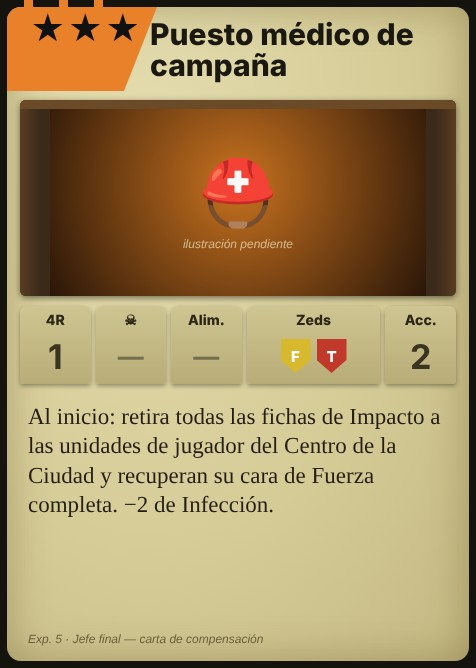
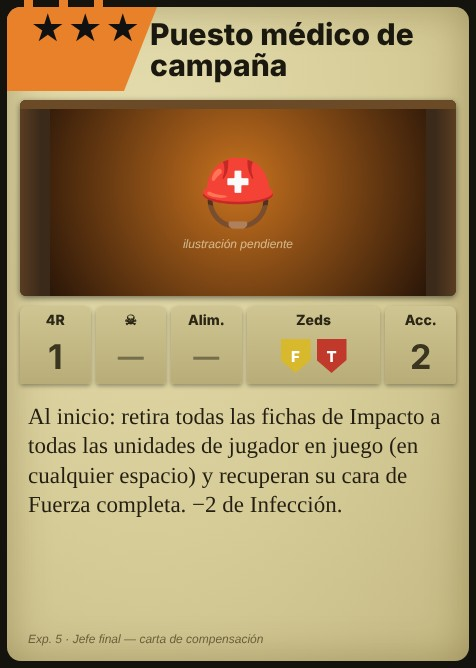
Exp. 5: Puesto médico de campaña cura a todas las unidades de jugador; BUILD_TIME, CHANGELOG y caché v75
Claude-Session: https://claude.ai/code/session_01KmRiLbWWzhUthpc2eQKnLk

Changed region(s): [[0.0588, 0.6587, 0.8824, 0.7784]]

diff --git a/js/phases.js b/js/phases.js
@@ -449,7 +449,7 @@ async function eventEffect(ev) {
     case 'heroe_b': case 'heroe_g': { const k = randomAvailableHero(); if (k) { const inits = ['C'].concat(G.routes.map(r => r + '0')); await spawnHero(k, null, inits); } else LOG('No quedan Héroes disponibles.'); break; }
     case 'boss_heroe': { const pool = heroPoolFor(G.lv.n).filter(x => !hero(x) && !G.cemetery.some(c => c.key === x)); if (!pool.length) { LOG('Refuerzos: no quedan Héroes disponibles.'); break; } const key = pool.length === 1 ? pool[0] : await UI.chooseCards({ title: 'Refuerzos: llega un Héroe', text: 'Elige el Héroe que llega.', options: pool.map(heroOpt) }); if (key == null) break; const w = await UI.pickSpace(['C'].concat(G.routes.map(r => r + '0')), 'Elige dónde aparece el Héroe (el Centro o un espacio Inicial).', false); await spawnHero(key, w == null ? 'C' : w); break; }
     case 'boss_brigada': { const ch = CIVH_POOL.filter(x => civhAvail(x) && !hero(x) && HEROES[x].lv <= MAX_CIVH_LV[G.lv.n] && !G.cemetery.some(c => c.key === x)); if (!ch.length) { LOG('Brigada civil: no quedan Civiles Heroicos disponibles.'); break; } const v = ch.length === 1 ? ch[0] : await UI.chooseCards({ title: 'Brigada civil', text: 'Elige el Civil Heroico que llega al Centro.', options: ch.map(heroOpt) }); if (v != null) await spawnHero(v, 'C'); break; }
-    case 'boss_medico': { const us = allUnits(x => isFighter(x) && x.space === 'C'); for (const u of us) { u.hits = 0; u.flipped = false; u.ecg = false; } LOG('Puesto médico de campaña: ' + us.length + ' unidad(es) del Centro se recuperan por completo.', 'good'); infDown(2); UI.redraw(); break; }
+    case 'boss_medico': { const us = allUnits(x => isFighter(x) && x.space && x.space !== 'CEM'); for (const u of us) { u.hits = 0; u.flipped = false; u.ecg = false; } LOG('Puesto médico de campaña: ' + us.length + ' unidad(es) de jugador se recuperan por completo.', 'good'); infDown(2); UI.redraw(); break; }
     case 'boss_cargamento': { G.ammo = Math.min(20, G.ammo + 5); G.supplies = Math.min(20, G.supplies + 5); UI.updateStats(); LOG('Cargamento aéreo: +5 de Munición y +5 de Suministros.', 'good'); break; }
     case 'boss_adrenalina': { const us = allUnits(x => ['hero', 'civh'].includes(x.type) && x.space && x.space !== 'CEM' && !x.ecg); us.forEach(u => { u.free = (u.free || 0) + 1; }); LOG('Adrenalina colectiva: ' + us.length + ' unidad(es) reciben 1 Acción gratis.', 'good'); UI.updateStats(); UI.updateHand(); UI.redraw(); break; }
     case 'keepcalm': { const hs = allUnits(x => x.type === 'hero' && x.space); if (hs.length) { const v = await UI.pickUnit(hs, '«Keep calm»: elige un Héroe (2 columnas a favor al atacar).'); G.units[v].keepCalm = true; } break; }

diff --git a/js/events.js b/js/events.js
@@ -112,7 +112,7 @@ ev('fin_r', 'Por fin ha terminado la larga pesadilla', 'r', 5, 0, 'B', 2, ['*','
 ev('boss_heroe', 'Refuerzos: llega un Héroe', 'o', 2, 1, 0, 0, ['A','T'], 2, ['Al inicio: elige un nuevo Héroe disponible y colócalo en el Centro de la Ciudad o en cualquier espacio Inicial.'], { exp: 5, fase: 'a' });
 ev('boss_cargamento', 'Cargamento aéreo', 'o', 2, 1, 0, 0, ['B','T'], 2, ['Al inicio: +5 de Munición y +5 de Suministros.'], { exp: 5, fase: 'a' });
 ev('boss_brigada', 'Brigada civil', 'o', 3, 1, 0, 0, ['M','A'], 2, ['Al inicio: elige una nueva unidad de Civiles Heroicos disponible y colócala en el Centro de la Ciudad.'], { exp: 5, fase: 'a' });
-ev('boss_medico', 'Puesto médico de campaña', 'o', 3, 1, 0, 0, ['F','T'], 2, ['Al inicio: retira todas las fichas de Impacto a las unidades de jugador del Centro de la Ciudad y recuperan su cara de Fuerza completa. −2 de Infección.'], { exp: 5, fase: 'a' });
+ev('boss_medico', 'Puesto médico de campaña', 'o', 3, 1, 0, 0, ['F','T'], 2, ['Al inicio: retira todas las fichas de Impacto a todas las unidades de jugador en juego (en cualquier espacio) y recuperan su cara de Fuerza completa. −2 de Infección.'], { exp: 5, fase: 'a' });
 ev('boss_adrenalina', 'Adrenalina colectiva', 'o', 4, 1, 0, 0, ['A','F'], 2, ['Al inicio: cada Héroe y cada Civil Heroico en juego recibe 1 Acción gratis este turno.'], { exp: 5, fase: 'a' });
 /* Las cartas del Jugador Zed y el texto «En Versus» de «¡Aquí está el Doctor!» (Dr. Marteuse) son solo del modo Versus (no incluido); el efecto en solitario de esa carta sí está. */
 

diff --git a/sw.js b/sw.js
@@ -1,7 +1,7 @@
 /* Service worker: permite instalar la web como app y jugar sin conexión.
    Código (html/js/css): red primero, con copia local de reserva. Imágenes y audio: caché primero. */
 'use strict';
-const CACHE = 'doz3-v74';
+const CACHE = 'doz3-v75';
 const SHELL = ['./', 'index.html', 'style.css', 'manifest.webmanifest', 'icons/icon-192.png', 'icons/icon-512.png', 'assets/portada.jpg', 'assets/fondo_nueva.webp', 'assets/fondo_ranking.webp',
   'js/version.js', 'js/data.js', 'js/events.js', 'js/dest.js', 'js/evlog.js', 'js/preview.js', 'js/obituario.js', 'js/engine.js', 'js/game.js', 'js/phases.js', 'js/actions.js', 'js/cardtext.js', 'js/ui.js', 'js/anim.js',
   'js/expansions.js', 'js/expansions2.js', 'js/jefe.js', 'js/sfx.js', 'js/sound.js', 'js/opciones.js', 'js/voz.js', 'js/ost.js', 'assets/sonidos/letras/letras.js', 'assets/sonidos/efectos/sfx_disparo.mp3', 'assets/sonidos/efectos/sfx_disparo_largo.mp3', 'js/mapzoom.js', 'js/movil.js', 'js/seedcode.js', 'js/save.js', 'js/main.js', 'js/bot.js'];

diff --git a/js/version.js b/js/version.js
@@ -1,2 +1,2 @@
 /* Fecha y hora de la última build (hora de Madrid). Se actualiza con cada cambio publicado. */
-const BUILD_TIME = '2026-11-10 13:45';
+const BUILD_TIME = '2026-11-10 13:48';

diff --git a/CHANGELOG.md b/CHANGELOG.md
@@ -2,6 +2,11 @@
 
 Registro de cambios por publicación (push a `main`). Lo más reciente, arriba. Cada entrada lleva la misma fecha y hora que `BUILD_TIME` de `js/version.js`.
 
+## 2026-11-10 13:48
+
+### Cambios
+- **Exp. 5, «Puesto médico de campaña»:** ahora cura a **todas** las unidades de jugador en juego (antes solo a las del Centro): retira todos sus Impactos y recuperan la cara completa; −2 de Infección. Carta regenerada. Caché v75.
+
 ## 2026-11-10 13:45
 
 ### Cambios
